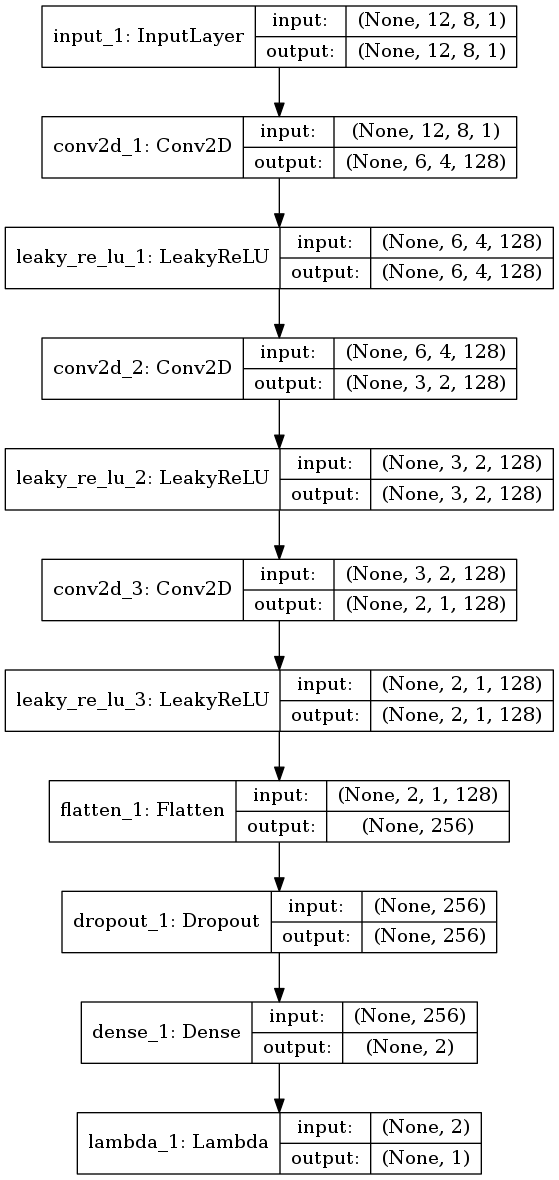
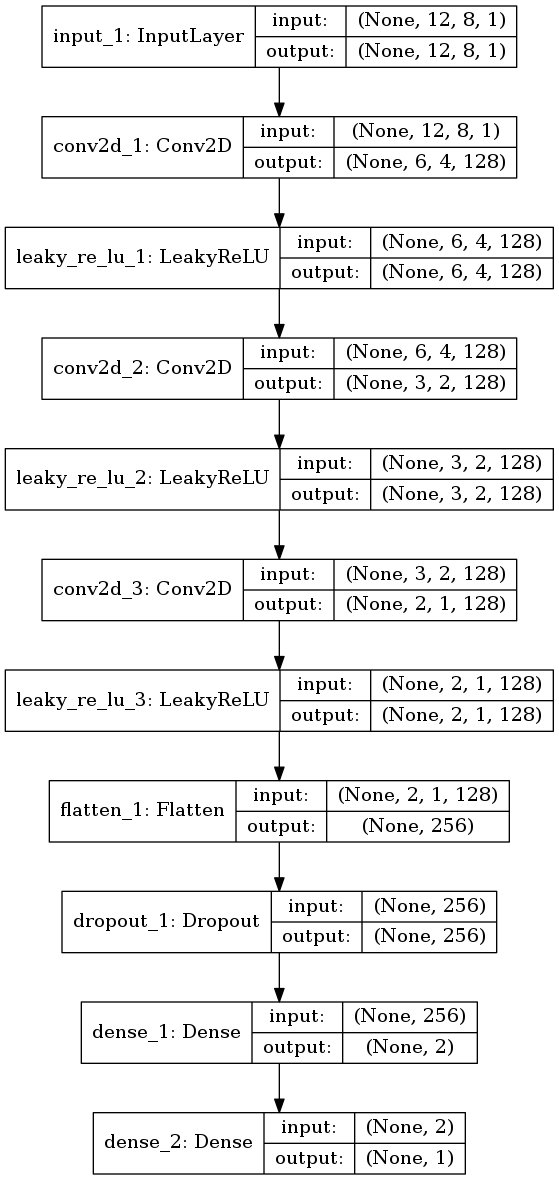
Changing the activation function for the unsupervised discriminator
Also, I'm fixing a bug in the sampling for training.

Changed region(s): [[0.3041, 0.9458, 0.8819, 1.0], [0.1216, 0.9458, 0.2737, 1.0]]

diff --git a/src/300_SNPs/gGAN_5x5.py b/src/300_SNPs/gGAN_5x5.py
@@ -1,7 +1,7 @@
 # example of semi-supervised gan for mnist
 import os
-import sys
 import numpy as np
+from sys import exit 
 from numpy.random import randint
 from numpy import expand_dims
 from numpy import delete
@@ -67,7 +67,8 @@ def define_discriminator(in_shape=(5,5,1), n_classes=2):
     c_model = Model(in_sample, c_out_layer)
     c_model.compile(loss='sparse_categorical_crossentropy', optimizer=Adam(lr=0.0002, beta_1=0.5), metrics=['accuracy'])
     # unsupervised output
-    d_out_layer = Lambda(custom_activation)(fe)
+    # d_out_layer = Lambda(custom_activation)(fe)
+    d_out_layer =  Dense(1, activation='sigmoid')(fe)
     # define and compile unsupervised discriminator model
     d_model = Model(in_sample, d_out_layer)
     d_model.compile(loss='binary_crossentropy', optimizer=Adam(lr=0.0002, beta_1=0.5))
@@ -140,14 +141,6 @@ def load_from_directory(path):
     return X
 
 # load the labeled data
-# def load_real_labeled_samples():
-#     X_training_0 = load_from_directory('./data/labeled/training/DF')
-#     X_training_1 = load_from_directory('./data/labeled/training/SD')
-#     X_test_0 = load_from_directory('./data/labeled/test/DF')
-#     X_test_1 = load_from_directory('./data/labeled/test/SD')
-#     return [X_training_0, X_training_1, X_test_0, X_test_1]
-
-# load the labeled data
 def load_real_labeled_samples():
     X_0 = load_from_directory('./data/labeled/DF')
     X_1 = load_from_directory('./data/labeled/SD')
@@ -183,8 +176,8 @@ def select_supervised_samples(dataset, n_samples=10):
     half_samples = int(n_samples/2)
     mask = np.array(dataset[1], dtype=bool)
     mask = np.reshape(mask,(dataset[0].shape[0]))
-    X_0 = dataset[0][mask]
-    X_1 = dataset[0][~mask]
+    X_0 = dataset[0][~mask]
+    X_1 = dataset[0][mask]
     ix_0 = randint(0, X_0.shape[0], half_samples)
     ix_1 = randint(0, X_1.shape[0], half_samples)
     X = append(X_0[ix_0], X_1[ix_1], axis=0)

diff --git a/src/300_SNPs/gGAN_12x8.py b/src/300_SNPs/gGAN_12x8.py
@@ -67,16 +67,18 @@ def define_discriminator(in_shape=(12,8,1), n_classes=2):
     c_model = Model(in_sample, c_out_layer)
     c_model.compile(loss='sparse_categorical_crossentropy', optimizer=Adam(lr=0.0002, beta_1=0.5), metrics=['accuracy'])
     # unsupervised output
-    d_out_layer = Lambda(custom_activation)(fe)
+    # d_out_layer = Lambda(custom_activation)(fe)
+    d_out_layer =  Dense(1, activation='sigmoid')(fe)
     # define and compile unsupervised discriminator model
     d_model = Model(in_sample, d_out_layer)
     d_model.compile(loss='binary_crossentropy', optimizer=Adam(lr=0.0002, beta_1=0.5))
     return d_model, c_model
 
 ##### plot the Discriminator
-d_model, c_model = define_discriminator()
+# d_model, c_model = define_discriminator()
 # plot_model(c_model, to_file='./images/discriminator1_12x8_plot.png', show_shapes=True, show_layer_names=True)
 # plot_model(d_model, to_file='./images/discriminator2_12x8_plot.png', show_shapes=True, show_layer_names=True)
+# exit()
 
 # define the standalone generator model
 def define_generator(latent_dim):
@@ -169,8 +171,8 @@ def select_supervised_samples(dataset, n_samples=10):
     half_samples = int(n_samples/2)
     mask = np.array(dataset[1], dtype=bool)
     mask = np.reshape(mask,(dataset[0].shape[0]))
-    X_0 = dataset[0][mask]
-    X_1 = dataset[0][~mask]
+    X_0 = dataset[0][~mask]
+    X_1 = dataset[0][mask]
     ix_0 = randint(0, X_0.shape[0], half_samples)
     ix_1 = randint(0, X_1.shape[0], half_samples)
     X = append(X_0[ix_0], X_1[ix_1], axis=0)

diff --git a/src/300_SNPs/gGAN.py b/src/300_SNPs/gGAN.py
@@ -67,7 +67,8 @@ def define_discriminator(in_shape=(12,20,1), n_classes=2):
     c_model = Model(in_sample, c_out_layer)
     c_model.compile(loss='sparse_categorical_crossentropy', optimizer=Adam(lr=0.0002, beta_1=0.5), metrics=['accuracy'])
     # unsupervised output
-    d_out_layer = Lambda(custom_activation)(fe)
+    # d_out_layer = Lambda(custom_activation)(fe)
+    d_out_layer =  Dense(1, activation='sigmoid')(fe)
     # define and compile unsupervised discriminator model
     d_model = Model(in_sample, d_out_layer)
     d_model.compile(loss='binary_crossentropy', optimizer=Adam(lr=0.0002, beta_1=0.5))
@@ -176,8 +177,8 @@ def select_supervised_samples(dataset, n_samples=10):
     half_samples = int(n_samples/2)
     mask = np.array(dataset[1], dtype=bool)
     mask = np.reshape(mask,(dataset[0].shape[0]))
-    X_0 = dataset[0][mask]
-    X_1 = dataset[0][~mask]
+    X_0 = dataset[0][~mask]
+    X_1 = dataset[0][mask]
     ix_0 = randint(0, X_0.shape[0], half_samples)
     ix_1 = randint(0, X_1.shape[0], half_samples)
     X = append(X_0[ix_0], X_1[ix_1], axis=0)

diff --git a/src/300_SNPs/data/pre_processing.py b/src/300_SNPs/data/pre_processing.py
@@ -102,7 +102,10 @@ def get_factors(number):
     for i in range(1, number):
         if number % i == 0:
             factors.append(i)
-    x1 = factors[int(len(factors)/2)+1]
+    if(len(factors)>3):
+        x1 = factors[int(len(factors)/2)+1]
+    else:
+        x1 = factors[-1]
     x2 = number / x1
 
     # shouldn't the last two numbers in the factors array be the biggest factors? So we could do something like this:

diff --git a/src/300_SNPs/plot_tests.py b/src/300_SNPs/plot_tests.py
@@ -3,7 +3,7 @@ import pandas as pd
 from matplotlib.pylab import plt
 
 path = './run/'
-file_name = 'test_2019-11-15T04:49:01.909861.log'
+file_name = 'test_2019-11-26T22:41:25.027418.log'
 full_name = path+file_name
 data = pd.read_csv(full_name)
 
